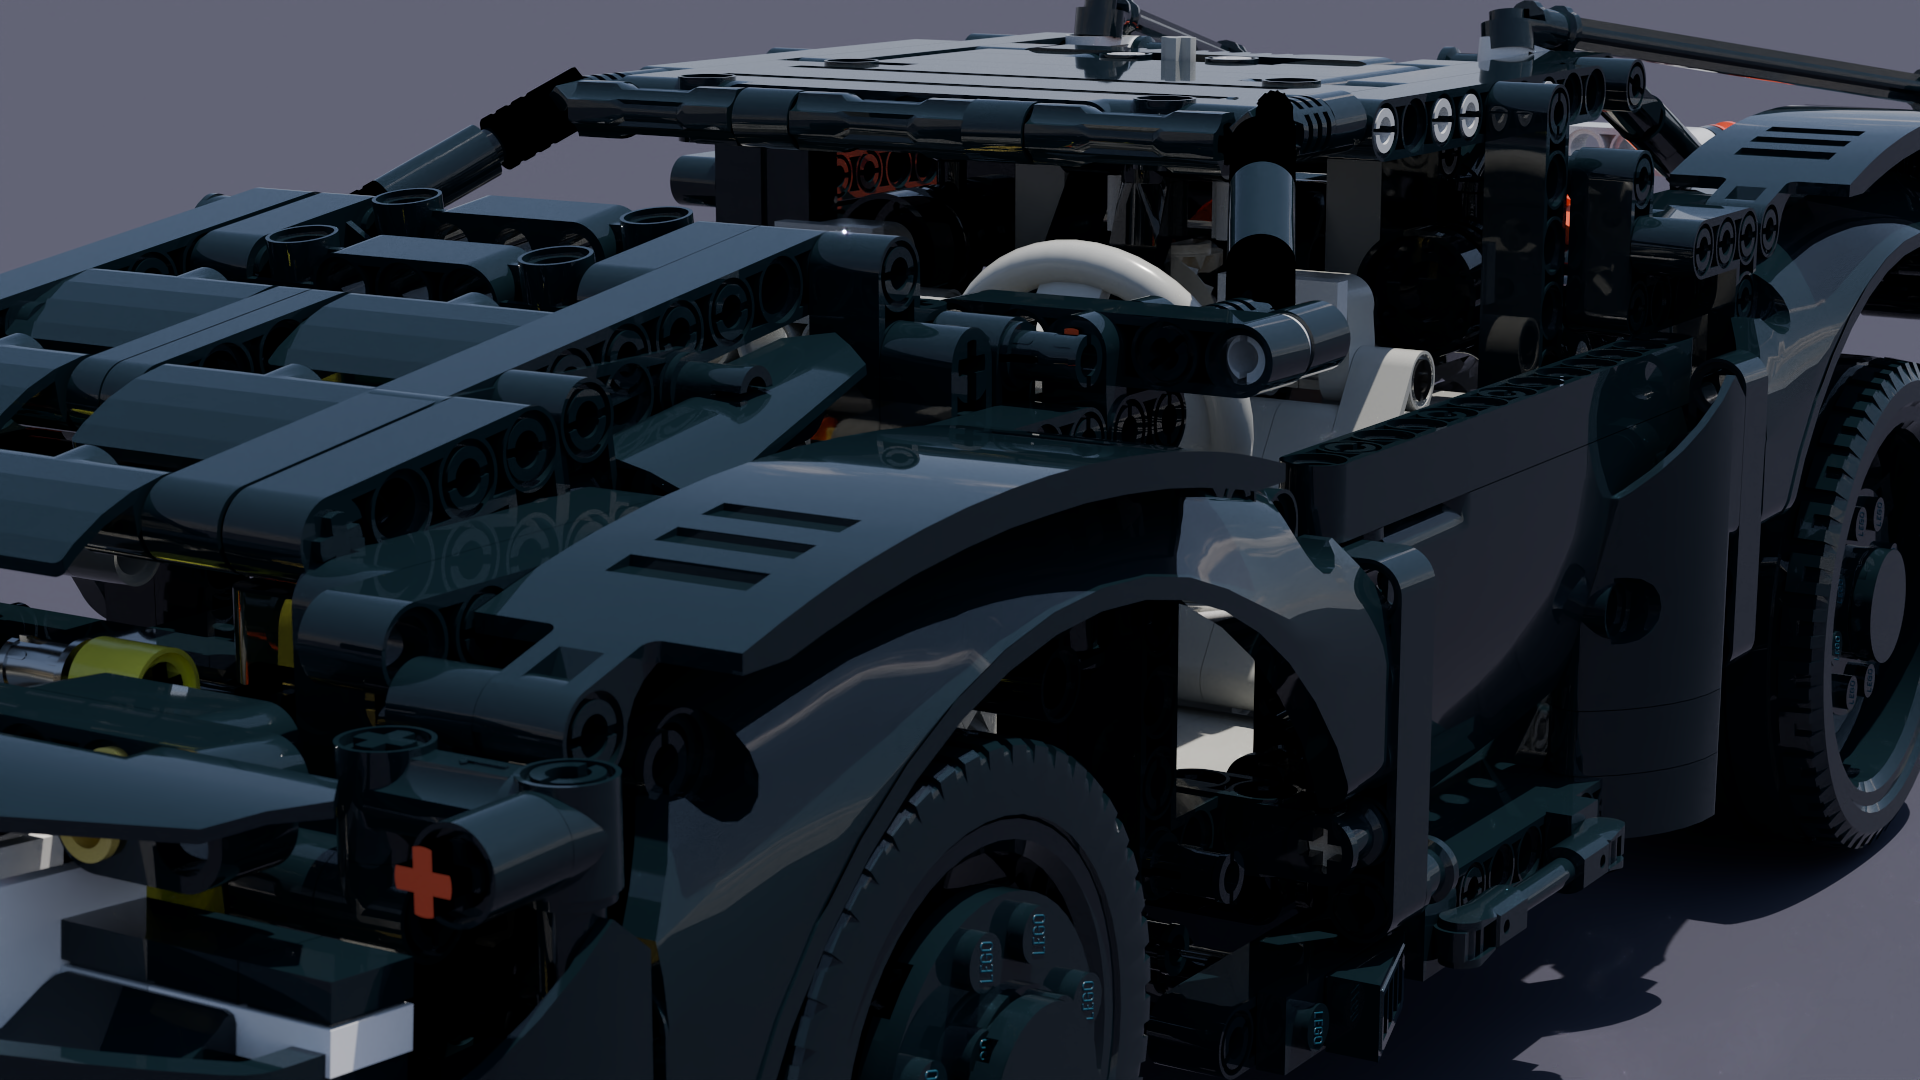
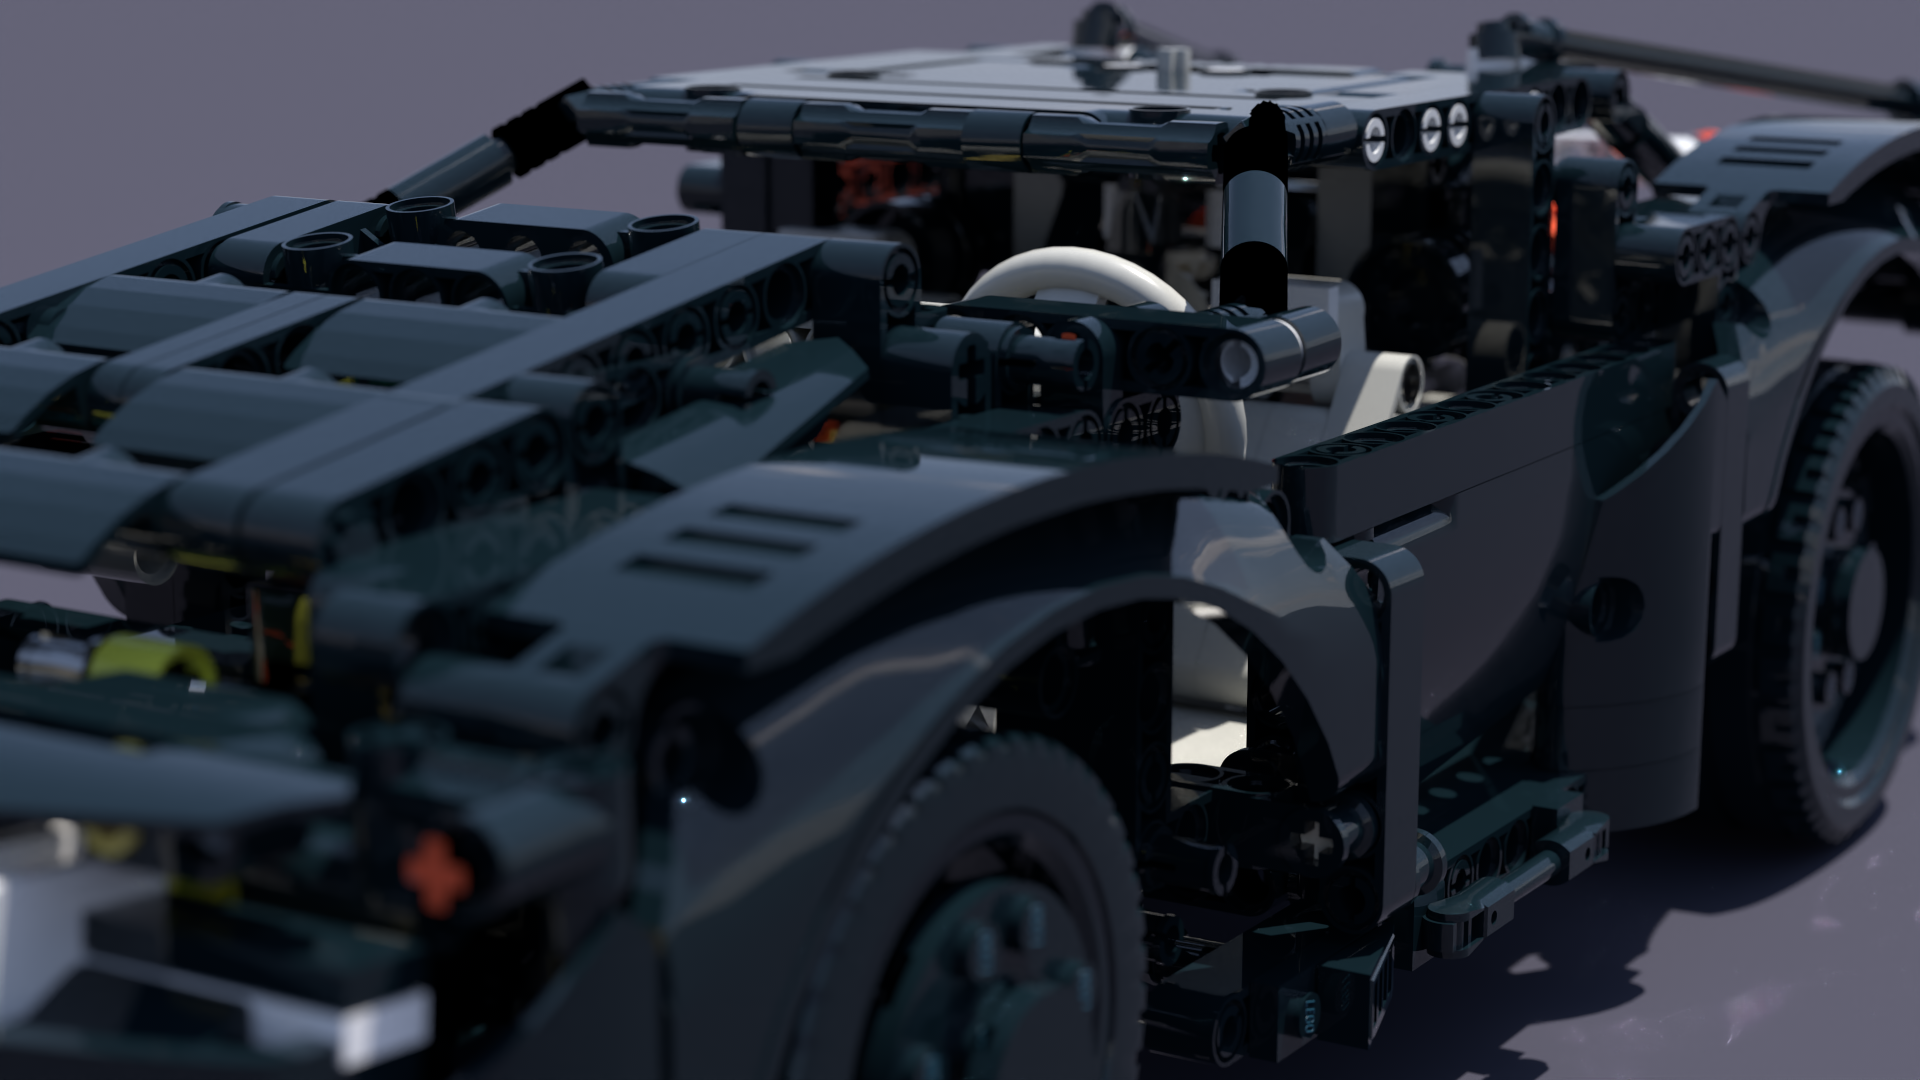
Update tobj to newest version and add new batmobile render

diff --git a/src/scenes/batmobile.rs b/src/scenes/batmobile.rs
@@ -1,5 +1,4 @@
 use std::f32;
-use std::f32::consts::PI;
 use std::sync::Arc;
 
 use glam::Vec3A;
@@ -19,18 +18,15 @@ use mat;
 
 
 pub fn batmobile_scene(width: Option<usize>, height: Option<usize>) -> Scene {
-    let origin = Vec3A::new(-8.0, 2.0, 6.0);
-    let lookat = Vec3A::new(0.0, 0.0, 1.0);
+    let origin = Vec3A::new(-2.0, 0.5, 1.5);
+    let lookat = Vec3A::new(0.0, 0.0, 0.25);
     let view = Vec3A::new(0.0, 1.0, 0.0);
-    let old_fov = 18.0;
     let (aspect_width, aspect_height) = (width.unwrap_or(1920) as f32, height.unwrap_or(1080) as f32);
     let sensor_height = 24.0;
-    let fov_radians = old_fov * PI / 180.0;
-    let focal_length = (sensor_height / 2.0) / (fov_radians / 2.0).tan();
-    let old_aperture = 0.01;
+    let focal_length = 74.0;
     let world_scale = 0.001;
-    let f_stop = (focal_length * world_scale) / old_aperture;
-    let focus_distance = (lookat - origin).length();
+    let f_stop = 2.8;
+    let focus_distance = 2.25;
 
     let camera = Camera::new(
         origin,
@@ -55,7 +51,7 @@ pub fn batmobile_scene(width: Option<usize>, height: Option<usize>) -> Scene {
 
     let translation = Vec3A::new(0.0, 0.0, 0.0);
     let rotation = Vec3A::new(0.0, 0.0, 0.0);
-    let scale = Vec3A::splat(1.0);
+    let scale = Vec3A::splat(0.25);
 
     for mesh in meshes {
         let transformed = TransformedMesh::new(
@@ -69,7 +65,7 @@ pub fn batmobile_scene(width: Option<usize>, height: Option<usize>) -> Scene {
 
     let grey = mat!(materials, Diffuse::new(Color::new(0.05, 0.05, 0.07).into(), 0.0));
     // floor plane
-    objects.push(Plane::new(Axis::XZ, Bounds2D::new(-1000.0..1000.0, -1000.0..1000.0), -1.6, grey).into_primitive());
+    objects.push(Plane::new(Axis::XZ, Bounds2D::new(-1000.0..1000.0, -1000.0..1000.0), -0.4, grey).into_primitive());
 
     let bvh = BVH::new(&mut objects);
 
